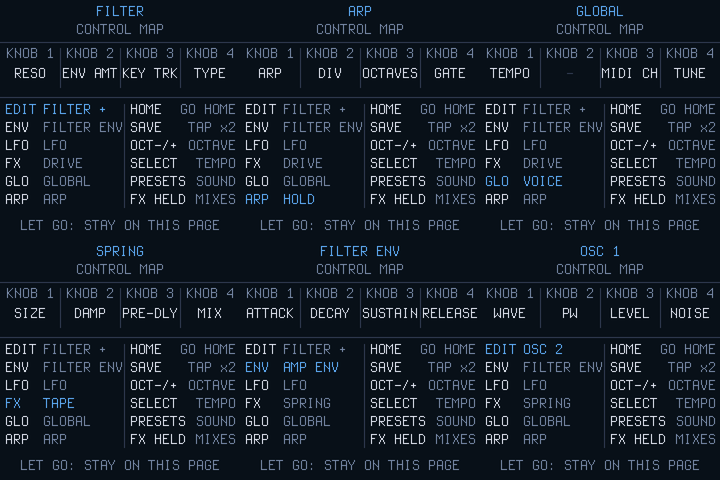
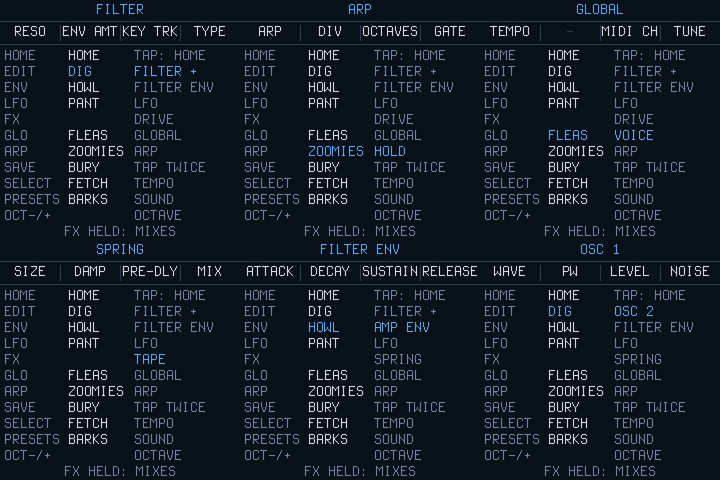
Control map shows the dog names; FX-held hint says BBD / SPRING; the HOME page is titled HOME
The map is now one row per button: the label printed on the panel, its dog name (DIG, HOWL, PANT, FLEAS, ZOOMIES,
BURY, FETCH, BARKS; FX has none in the brief) and where a press goes now. Page titles stay plain. The FX-held hint
no longer says DELAY / REVERB. PG_PERFORM's title is "HOME". Screens in dog5-docs/screens regenerated.

Claude-Session: https://claude.ai/code/session_01R9QVTsT1zb1fSTqz56QzxH

Changed region(s): [[0.0, 0.0, 1.0, 1.0]]

diff --git a/firmware/src/obv_ui.h b/firmware/src/obv_ui.h
@@ -181,55 +181,49 @@ static void ui_page(const char *title, const knob_view_t *k, const char *note)
     cv_blit(0, 46);
 }
 
-/* HOLD HOME: the control map of the page you are on. Four strips (the canvas is 120 rows at most on the host), each
- * followed by app_idle(): the DRAW RULE (CLAUDE.md section 6), a draw that takes time lets the notes through.
- *   top    the page's name
- *   knobs  KNOB 1-4 and what each one is on this page ("-" = none)
- *   rows   left: where each page button goes NOW (the live part); right: what the rest of the panel does
- *   foot   what letting go does */
-typedef struct { const char *name, *what; } map_row_t;
-#define MAP_ROWS 6
-static void ui_map(const char *title, const knob_view_t *k, const char *knob_note, const map_row_t *l, const map_row_t *r,
-                   int32_t hi_l, int32_t hi_r, const char *foot)
+/* HOLD HOME: the control map of the page you are on. Three strips (the canvas is 120 rows at most on the host), each
+ * followed by app_idle(), and app_idle() after every row: the DRAW RULE (CLAUDE.md section 6), a draw that takes time
+ * lets the notes through.
+ *   top    the page's name, and under it the four knobs (what each one is on this page; "-" = none)
+ *   rows   one per button: the label printed on the panel, its dog name, and what it does (for the page buttons: where
+ *          a press goes NOW, so the map stays true as the families' memories change)
+ *   foot   one line */
+typedef struct { const char *hw, *dog, *what; } map_row_t;
+#define MAP_ROWS 11
+#define MAP_ROW_Y 48                            /* the first row; 16 px a row, the foot under the last (y 224) */
+static void ui_map(const char *title, const knob_view_t *k, const char *knob_note, const map_row_t *r, int32_t hi,
+                   const char *foot)
 {
     int32_t i;
-    cv_begin(240, 44, C_PANEL);
-    cv_text((240 - text_w(&FONT_S, title)) / 2, 4, &FONT_S, title, C_AMBER);
-    cv_text((240 - text_w(&FONT_S, "CONTROL MAP")) / 2, 22, &FONT_S, "CONTROL MAP", C_DIMT);
-    cv_rect(0, 42, 240, 1, C_RULE);
-    cv_blit(0, 0);
-    app_idle();
-    cv_begin(240, 50, C_PANEL);
+    cv_begin(240, 46, C_PANEL);
+    cv_text((240 - text_w(&FONT_S, title)) / 2, 2, &FONT_S, title, C_AMBER);
+    cv_rect(0, 21, 240, 1, C_RULE);
     for (i = 0; i < 4; i++) {
-        char n[8];
-        n[0] = 'K'; n[1] = 'N'; n[2] = 'O'; n[3] = 'B'; n[4] = ' '; n[5] = (char)('1' + i); n[6] = 0;
-        cv_text(30 + 60 * i - text_w(&FONT_S, n) / 2, 2, &FONT_S, n, C_DIMT);
         if (k[i].present)
-            cv_text(30 + 60 * i - text_w(&FONT_S, k[i].label) / 2, 22, &FONT_S, k[i].label, C_CREAM);
+            cv_text(30 + 60 * i - text_w(&FONT_S, k[i].label) / 2, 24, &FONT_S, k[i].label, C_CREAM);
         else if (!knob_note)
-            cv_text(30 + 60 * i - text_w(&FONT_S, "-") / 2, 22, &FONT_S, "-", C_RULE);
-        if (i && !knob_note) cv_rect(60 * i, 4, 1, 40, C_RULE);
+            cv_text(30 + 60 * i - text_w(&FONT_S, "-") / 2, 24, &FONT_S, "-", C_RULE);
+        if (i && !knob_note) cv_rect(60 * i, 25, 1, 16, C_RULE);
     }
     if (knob_note)
-        cv_text((240 - text_w(&FONT_S, knob_note)) / 2, 22, &FONT_S, knob_note, C_DIMT);
-    cv_blit(0, 44);
+        cv_text((240 - text_w(&FONT_S, knob_note)) / 2, 24, &FONT_S, knob_note, C_DIMT);
+    cv_rect(0, 44, 240, 1, C_RULE);
+    cv_blit(0, 0);
     app_idle();
-    cv_begin(240, 116, C_PANEL);
-    cv_rect(0, 1, 240, 1, C_RULE);
-    cv_rect(124, 8, 1, 6 * 18 - 4, C_RULE);
     for (i = 0; i < MAP_ROWS; i++) {
-        int32_t y = 6 + i * 18;
-        cv_text(5, y, &FONT_S, l[i].name, i == hi_l ? C_AMBER : C_CREAM);
-        cv_text(43, y, &FONT_S, l[i].what, i == hi_l ? C_AMBER : C_DIMT);
-        cv_text(130, y, &FONT_S, r[i].name, i == hi_r ? C_AMBER : C_CREAM);
-        cv_text(236 - text_w(&FONT_S, r[i].what), y, &FONT_S, r[i].what, i == hi_r ? C_AMBER : C_DIMT);
+        int32_t y;
+        if (i == 0 || i == 6) {                 /* a new strip: rows 0-5 from y 46, rows 6-10 + the foot from y 144 */
+            cv_begin(240, i ? 96 : 98, C_PANEL);
+        }
+        y = i < 6 ? MAP_ROW_Y - 46 + i * 16 : (i - 6) * 16;
+        cv_text(4, y, &FONT_S, r[i].hw, C_DIMT);
+        cv_text(68, y, &FONT_S, r[i].dog, i == hi ? C_AMBER : C_CREAM);
+        cv_text(134, y, &FONT_S, r[i].what, i == hi ? C_AMBER : C_DIMT);
         app_idle();                             /* (a row is ~1 ms: the keys and MIDI in between) */
+        if (i == 5) { cv_blit(0, 46); app_idle(); }
     }
-    cv_blit(0, 96);
-    app_idle();
-    cv_begin(240, 24, C_PANEL);
-    cv_text((240 - text_w(&FONT_S, foot)) / 2, 2, &FONT_S, foot, C_DIMT);
-    cv_blit(0, 216);
+    cv_text((240 - text_w(&FONT_S, foot)) / 2, 80, &FONT_S, foot, C_DIMT);
+    cv_blit(0, 144);
     app_idle();
 }
 

diff --git a/firmware/src/obervave.c b/firmware/src/obervave.c
@@ -343,7 +343,7 @@ static void draw_hints(void)
     if (key == hints_key) return;
     hints_key = key;
     if (toasting) ui_hints(toast, "", C_AMBER);
-    else if (layer == L_FX) ui_hints("KNOBS: CHORUS DELAY REVERB", "AND THE DELAY'S TIME", C_AMBER);
+    else if (layer == L_FX) ui_hints("KNOBS: CHORUS BBD SPRING", "AND THE BBD TIME", C_AMBER);
 }
 
 #ifdef OBV_HOST
@@ -377,13 +377,13 @@ static uint32_t host_idle_n, host_map_idle;     /* tests: app_idle calls that go
 #endif
 static void draw_map(void)
 {
-    static const struct { uint8_t fam; const char *name; } PB[MAP_ROWS] = {
-        {FAM_EDIT, "EDIT"}, {FAM_ENV, "ENV"}, {FAM_LFO, "LFO"}, {FAM_FX, "FX"}, {FAM_GLO, "GLO"}, {FAM_ARP, "ARP"}};
-    static const map_row_t R[MAP_ROWS] = {
-        {"HOME", "GO HOME"}, {"SAVE", "TAP x2"}, {"OCT-/+", "OCTAVE"}, {"SELECT", "TEMPO"}, {NM_PRESETS, "SOUND"}, {"FX HELD", "MIXES"}};
-    map_row_t L[MAP_ROWS];
+    /* the label printed on the panel, its dog name (CLAUDE.md section 5; the FX button has none in the brief) */
+    static const struct { uint8_t fam; const char *hw, *dog; } PB[6] = {
+        {FAM_EDIT, "EDIT", "DIG"}, {FAM_ENV, "ENV", "HOWL"}, {FAM_LFO, "LFO", "PANT"},
+        {FAM_FX, "FX", ""}, {FAM_GLO, "GLO", "FLEAS"}, {FAM_ARP, "ARP", "ZOOMIES"}};
+    map_row_t R[MAP_ROWS];
     knob_view_t k[4];
-    int32_t i, hi_l = -1, hi_r = page == PG_PERFORM ? 0 : -1;
+    int32_t i, hi = page == PG_PERFORM ? 0 : -1;
     uint32_t none = 1;
 #ifdef OBV_HOST
     uint32_t idle0 = host_idle_n;
@@ -397,12 +397,17 @@ static void draw_map(void)
         } else if (p >= 0) { k[i].label = PDEF[p].name; k[i].present = 1; }
         none &= !k[i].present;
     }
-    for (i = 0; i < MAP_ROWS; i++) {
-        L[i].name = PB[i].name;
-        L[i].what = PB[i].fam == FAM_ARP && page == PG_ARP ? "HOLD" : PAGE[cycle_fam(PB[i].fam)].title;
-        if (in_fam(PB[i].fam)) hi_l = i;
+    R[0].hw = "HOME"; R[0].dog = "HOME"; R[0].what = "TAP: HOME";
+    for (i = 0; i < 6; i++) {                   /* the page buttons: where a press goes NOW (the live part) */
+        R[1 + i].hw = PB[i].hw; R[1 + i].dog = PB[i].dog;
+        R[1 + i].what = PB[i].fam == FAM_ARP && page == PG_ARP ? "HOLD" : PAGE[cycle_fam(PB[i].fam)].title;
+        if (in_fam(PB[i].fam)) hi = 1 + i;
     }
-    ui_map(PAGE[page].title, k, none ? "NO KNOBS HERE YET" : 0, L, R, hi_l, hi_r, "LET GO: STAY ON THIS PAGE");
+    R[7].hw = "SAVE"; R[7].dog = "BURY"; R[7].what = "TAP TWICE";
+    R[8].hw = "SELECT"; R[8].dog = "FETCH"; R[8].what = "TEMPO";
+    R[9].hw = NM_PRESETS; R[9].dog = "BARKS"; R[9].what = "SOUND";
+    R[10].hw = "OCT-/+"; R[10].dog = ""; R[10].what = "OCTAVE";
+    ui_map(PAGE[page].title, k, none ? "NO KNOBS HERE YET" : 0, R, hi, "FX HELD: MIXES");
 #ifdef OBV_HOST
     host_map_idle = host_idle_n - idle0;
 #endif

diff --git a/firmware/src/obv_params.h b/firmware/src/obv_params.h
@@ -146,7 +146,7 @@ enum { PG_PERFORM,                                                              
        PG_GLOBAL, PG_VOICE, PG_VOICE2, PG_OUTPUT,                               /* GLO */
        NPAGE };
 static const page_t PAGE[NPAGE] = {
-    [PG_PERFORM] = {"PERFORM", {P_CUTOFF, P_RESO, P_FENV_AMT, P_AR}},
+    [PG_PERFORM] = {"HOME", {P_CUTOFF, P_RESO, P_FENV_AMT, P_AR}},
     [PG_OSC1] = {"OSC 1", {P_O1_WAVE, P_O1_PW, P_O1_LVL, P_NOISE}},
     [PG_OSC2] = {"OSC 2", {P_O2_WAVE, P_O2_PW, P_O2_LVL, P_O2_SEMI}},
     [PG_OSCMOD] = {"OSC MOD", {P_SYNC, P_XMOD, P_ENV_O2, P_O2_FINE}},

diff --git a/CLAUDE.md b/CLAUDE.md
@@ -113,8 +113,10 @@ ALGORITHM, PLAY, REC.)
 **Adopted from Skiff** (the strongest navigation model in the scene; upstream already borrows from it):
 - ⭐ **Hold HOME = a live control map** showing what every button/knob does on the current page. This is the
   answer to the renamed controls — no memorisation, no dual-labelling; the headers stay pure. **DONE**
-  (`ui_map`/`draw_map`; tests/map.txt): held ≥ 350 ms it shows the page's four knobs and where each page button
-  goes *now*; letting go stays on the page. A tap goes HOME **on release** (that is the cost: HOME no longer
+  (`ui_map`/`draw_map`; tests/map.txt): held ≥ 350 ms it shows the page's four knobs and, per button, the label
+  printed on the panel, its dog name (DIG, HOWL, PANT, FLEAS, ZOOMIES, BURY, FETCH, BARKS — the FX button has none
+  in the brief, so it shows blank) and where a press goes *now*; letting go stays on the page. The page titles
+  stay plain (HOME, FILTER, BBD DELAY…): the dog names live in the map only. A tap goes HOME **on release** (that is the cost: HOME no longer
   acts on press). The map draw calls `app_idle()` (DRAW RULE) — the host script asserts it.
 - **Page families remember their last page** (one `uint8_t` each, `fam_last`) — so HOME→play→EDIT returns you to
   where you were, not to the top of the cycle. **DONE** (tests/families.txt, 43 `expect page` checks).
